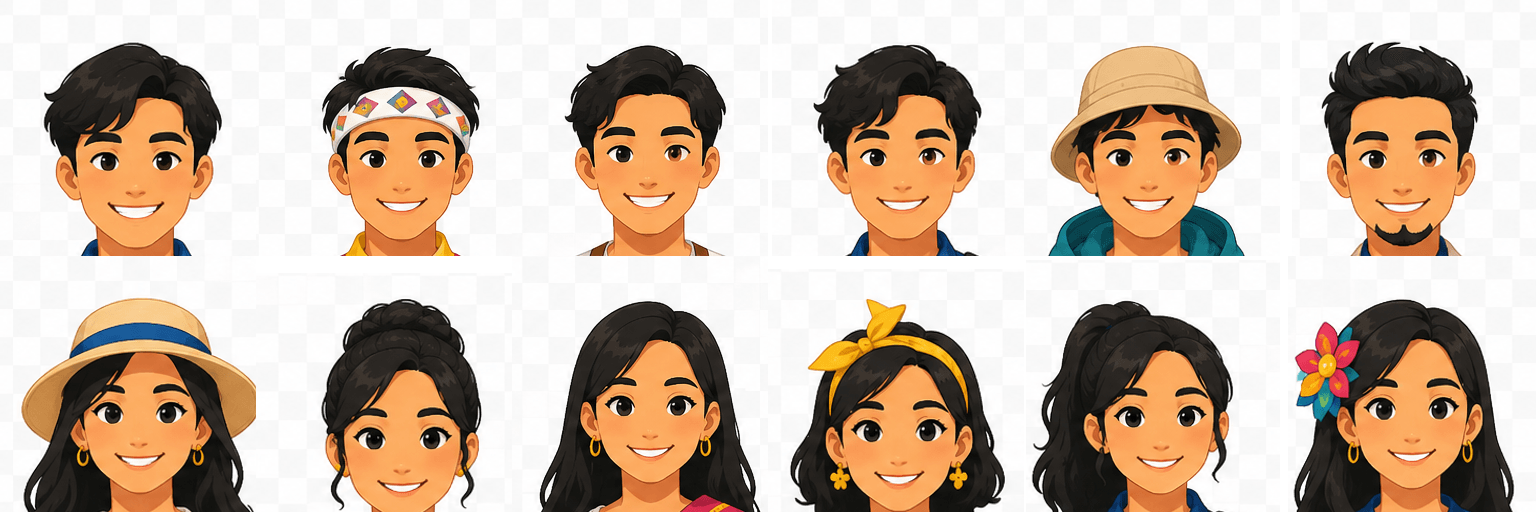
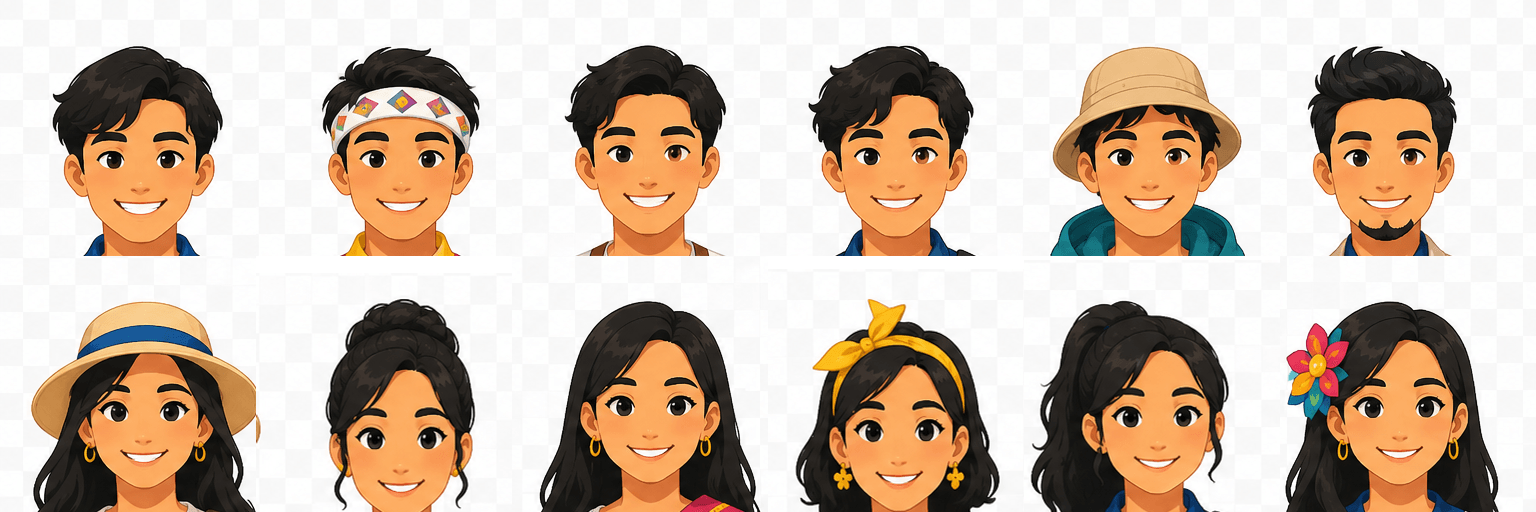
fix: the RLS error was a missing service role key, silently downgraded
Saving a profile failed with "new row violates row-level security policy for
tourist_profiles". Tested both keys against the live table: the anon key gets
exactly that 401, the service role key gets 201. So the deployment has no
SUPABASE_SERVICE_ROLE_KEY.

supabase-server.ts fell back to the anon key when the service role key was
absent, without a word. That meant the entire server-side API quietly ran with
anon privileges and every protected write surfaced as a policy error - which
reads as a database misconfiguration and sends you looking at RLS, a long way
from the actual cause. It now says so once, plainly, at startup, and exports
hasServiceRole for anything that needs to check.

The key itself has to be set in the Vercel environment; nothing in the repo can
do that.

Also recut the sheet: several avatars sat off-centre because the window was
being centred on the bounding box of the artwork. That box includes a flower
beside the hair, a wide hat, a backpack strap - so its centre is not the face's
centre. And since the window is already as wide as a cell, shifting it sideways
could only crop one edge of the character and pad the other with white, which
is what tipped them over. The characters are drawn centred in their cells, so
the full cell width is taken as-is and only the vertical position is computed.

diff --git a/liliw-frontend/src/lib/supabase-server.ts b/liliw-frontend/src/lib/supabase-server.ts
@@ -1,9 +1,33 @@
 import { createClient } from '@supabase/supabase-js';
 
-// Server-only client — uses service role key to bypass RLS.
-// Falls back to anon key if service role key is not set (still needs permissive RLS policies).
+/**
+ * Server-only client. It is expected to hold the service role key, which
+ * bypasses RLS — every API route that writes on a user's behalf depends on it.
+ *
+ * It used to fall back to the anon key when the service role key was missing.
+ * That fallback is why saving a profile failed with "new row violates
+ * row-level security policy": the deployment had no SUPABASE_SERVICE_ROLE_KEY,
+ * so the whole server-side API quietly ran with anon privileges and every
+ * protected write failed as a policy error, miles from the actual cause.
+ *
+ * Missing configuration is now stated once, plainly, rather than degraded into
+ * a class of errors that look like a database problem.
+ */
+const key = process.env.SUPABASE_SERVICE_ROLE_KEY ?? process.env.NEXT_PUBLIC_SUPABASE_ANON_KEY;
+
+if (!process.env.SUPABASE_SERVICE_ROLE_KEY) {
+  console.error(
+    '[supabase-server] SUPABASE_SERVICE_ROLE_KEY is not set. Falling back to the anon key, ' +
+    'which cannot bypass RLS — writes to protected tables will fail with policy errors. ' +
+    'Set it in the deployment environment.',
+  );
+}
+
 export const supabaseServer = createClient(
   process.env.NEXT_PUBLIC_SUPABASE_URL!,
-  process.env.SUPABASE_SERVICE_ROLE_KEY ?? process.env.NEXT_PUBLIC_SUPABASE_ANON_KEY!,
+  key!,
   { auth: { persistSession: false } },
 );
+
+/** True when the server client actually has elevated rights. */
+export const hasServiceRole = !!process.env.SUPABASE_SERVICE_ROLE_KEY;

diff --git a/liliw-frontend/public/avatars/README.md b/liliw-frontend/public/avatars/README.md
@@ -34,6 +34,12 @@ right and top to bottom:
   outside the cell. Anchoring near the top of the artwork instead pushes the
   hair against the edge, and once the avatar is masked into a circle the top of
   the head is clipped.
+- **Do not recentre horizontally.** The characters are drawn centred in their
+  cells, and the window is already as wide as a cell, so shifting it sideways
+  can only crop one edge and pad the other with white. Centring on the artwork's
+  bounding box seems reasonable and is not: that box includes a flower beside
+  the hair, a wide hat, a backpack strap, so its centre is not the face's. Take
+  the full cell width.
 - Detecting the neck from the silhouette was tried and abandoned: these
   shoulders widen gradually, so a width threshold found them anywhere from a
   third to nine tenths of the way down. The proportion is steadier because all
